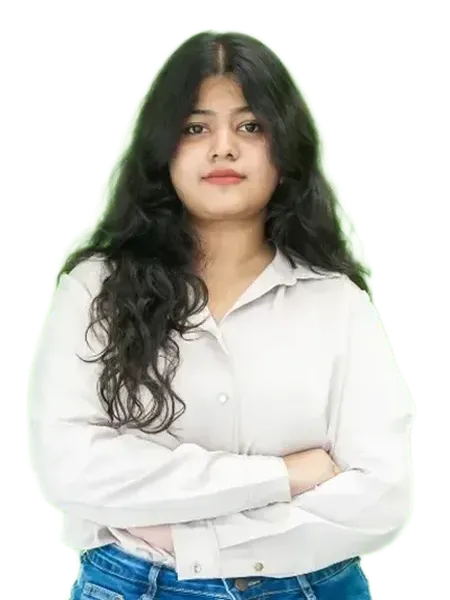
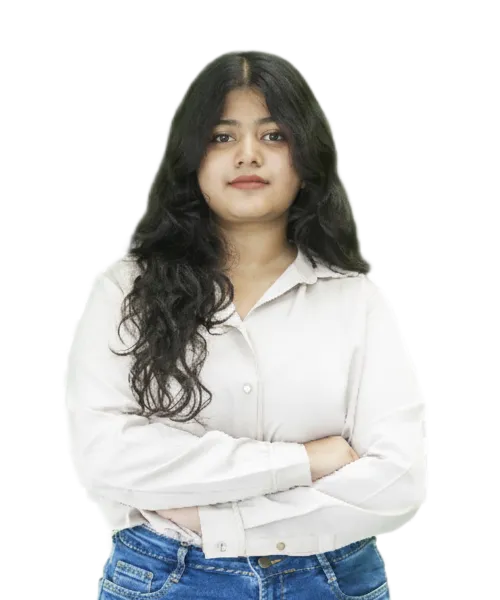
Improved image quality and aspect ratio of jr core

Changed region(s): [[0.0622, 0.03, 0.9022, 1.0], [0.3111, 0.78, 0.3422, 0.81]]

diff --git a/team.html b/team.html
@@ -361,7 +361,7 @@
               </div>
               <div class="team-content team-content2025">
                 <div class="box">
-                  <img src="assets/img/team/2025/Sebastian Karia.webp" />
+                  <img src="assets/img/team/2025/Sebastian Karia.webp" loading="lazy" alt="Sebastian Karia" />
                   <h3>Sebastian Karia</h3>
                   <h5>Chairperson</h5>
                   <div class="cust_icons">
@@ -370,7 +370,7 @@
                   </div>
                 </div>
                 <div class="box">
-                  <img src="assets/img/team/2025/Varad Sonandkar.webp" />
+                  <img src="assets/img/team/2025/Varad Sonandkar.webp" loading="lazy" alt="Varad Sonandkar" />
                   <h3>Varad Sonandkar</h3>
                   <h5>Vice-Chairperson</h5>
                   <div class="cust_icons">
@@ -379,7 +379,7 @@
                   </div>
                 </div>
                 <div class="box">
-                  <img src="assets/img/team/2025/Vedant Ghuge.webp" />
+                  <img src="assets/img/team/2025/Vedant Ghuge.webp" loading="lazy" alt="Vedant Ghuge" />
                   <h3>Vedant Ghuge</h3>
                   <h5>Technical Head</h5>
                   <div class="cust_icons">
@@ -388,7 +388,7 @@
                   </div>
                 </div>
                 <div class="box">
-                  <img src="assets/img/team/2025/Chetan Chaudhari.webp" />
+                  <img src="assets/img/team/2025/Chetan Chaudhari.webp" loading="lazy" alt="Chetan Chaudhari" />
                   <h3>Chetan Chaudhari</h3>
                   <h5>Technical Head</h5>
                   <div class="cust_icons">
@@ -397,7 +397,7 @@
                   </div>
                 </div>
                 <div class="box">
-                  <img src="assets/img/team/2025/Jaden Fernandes.webp" />
+                  <img src="assets/img/team/2025/Jaden Fernandes.webp" loading="lazy" alt="Jaden Fernandes" />
                   <h3>Jaden Fernandes</h3>
                   <h5>Event Head</h5>
                   <div class="cust_icons">
@@ -406,7 +406,7 @@
                   </div>
                 </div>
                 <div class="box">
-                  <img src="assets/img/team/2025/Ansari Fauzan.webp" />
+                  <img src="assets/img/team/2025/Ansari Fauzan.webp" loading="lazy" alt="Ansari Fauzan" />
                   <h3>Ansari Fauzan</h3>
                   <h5>Event Head</h5>
                   <div class="cust_icons">
@@ -415,7 +415,7 @@
                   </div>
                 </div>
                 <div class="box">
-                  <img src="assets/img/team/2025/Yashraj Patil.webp" />
+                  <img src="assets/img/team/2025/Yashraj Patil.webp" loading="lazy" alt="Yashraj Patil" />
                   <h3>Yashraj Patil</h3>
                   <h5>Web Development Head</h5>
                   <div class="cust_icons">
@@ -424,7 +424,7 @@
                   </div>
                 </div>
                 <div class="box">
-                  <img src="assets/img/team/2025/Aarya Khatate.webp" />
+                  <img src="assets/img/team/2025/Aarya Khatate.webp" loading="lazy" alt="Aarya Khatate" />
                   <h3>Aarya Khatate</h3>
                   <h5>Editorial Head</h5>
                   <div class="cust_icons">
@@ -433,7 +433,7 @@
                   </div>
                 </div>
                 <div class="box">
-                  <img src="assets/img/team/2025/Mrudula Sonawane.webp" />
+                  <img src="assets/img/team/2025/Mrudula Sonawane.webp" loading="lazy" alt="Mrudula Sonawane" />
                   <h3>Mrudula Sonawane</h3>
                   <h5>PR Head</h5>
                   <div class="cust_icons">
@@ -442,7 +442,7 @@
                   </div>
                 </div>
                 <div class="box">
-                  <img src="assets/img/team/2025/Glynis D'Mello.webp" />
+                  <img src="assets/img/team/2025/Glynis D'Mello.webp" loading="lazy" alt="Glynis D'Mello" />
                   <h3>Glynis D'Mello</h3>
                   <h5>PR Head</h5>
                   <div class="cust_icons">
@@ -451,7 +451,7 @@
                   </div>
                 </div>
                 <div class="box">
-                  <img src="assets/img/team/2025/Bhumi Kadam.webp" />
+                  <img src="assets/img/team/2025/Bhumi Kadam.webp" loading="lazy" alt="Bhumi Kadam" />
                   <h3>Bhumi Kadam</h3>
                   <h5>Creative Head</h5>
                   <div class="cust_icons">
@@ -460,7 +460,7 @@
                   </div>
                 </div>
                 <div class="box">
-                  <img src="assets/img/team/2025/Bhumika Patil.webp" />
+                  <img src="assets/img/team/2025/Bhumika Patil.webp" loading="lazy" alt="Bhumika Patil" />
                   <h3>Bhumika Patil</h3>
                   <h5>Creative Head</h5>
                   <div class="cust_icons">
@@ -469,7 +469,7 @@
                   </div>
                 </div>
                 <div class="box">
-                  <img src="assets/img/team/2025/Atharva Avhad.webp" />
+                  <img src="assets/img/team/2025/Atharva Avhad.webp" loading="lazy" alt="Atharva Avhad" />
                   <h3>Atharva Avhad</h3>
                   <h5>Treasurer</h5>
                   <div class="cust_icons">
@@ -486,7 +486,7 @@
               </div>
               <div class="team-content team-content2025">
                 <div class="box">
-                  <img src="assets/img/team/2025/Sampada Kaginkar.webp" />
+                  <img src="assets/img/team/2025/Sampada Kaginkar.webp" loading="lazy" alt="Sampada Kaginkar" />
                   <h3>Sampada Kaginkar</h3>
                   <h5>Asst. Technical Head</h5>
                   <div class="cust_icons">
@@ -495,7 +495,7 @@
                   </div>
                 </div>
                 <div class="box">
-                  <img src="assets/img/team/2025/Jigyasa Rathi.webp" />
+                  <img src="assets/img/team/2025/Jigyasa Rathi.webp" loading="lazy" alt="Jigyasa Rathi" />
                   <h3>Jigyasa Rathi</h3>
                   <h5>Asst. Event Head</h5>
                   <div class="cust_icons">
@@ -504,7 +504,7 @@
                   </div>
                 </div>
                 <div class="box">
-                  <img src="assets/img/team/2025/Kalanidhi Murali.webp" />
+                  <img src="assets/img/team/2025/Kalanidhi Murali.webp" loading="lazy" alt="Kalanidhi Murali" />
                   <h3>Kalanidhi Murali</h3>
                   <h5>Asst. Event Head</h5>
                   <div class="cust_icons">
@@ -513,7 +513,7 @@
                   </div>
                 </div>
                 <div class="box">
-                  <img src="assets/img/team/2025/Rutvij Kimmatkar.webp" />
+                  <img src="assets/img/team/2025/Rutvij Kimmatkar.webp" loading="lazy" alt="Rutvij Kimmatkar" />
                   <h3>Rutvij Kimmatkar</h3>
                   <h5>Asst. Editorial Head</h5>
                   <div class="cust_icons">
@@ -522,7 +522,7 @@
                   </div>
                 </div>
                 <div class="box">
-                  <img src="assets/img/team/2025/Riya Paul.webp" />
+                  <img src="assets/img/team/2025/Riya Paul.webp" loading="lazy" alt="Riya Paul" />
                   <h3>Riya Paul</h3>
                   <h5>Asst. PR Head</h5>
                   <div class="cust_icons">
@@ -531,7 +531,7 @@
                   </div>
                 </div>
                 <div class="box">
-                  <img src="assets/img/team/2025/Roshell Miranda.webp" />
+                  <img src="assets/img/team/2025/Roshell Miranda.webp" loading="lazy" alt="Roshell Miranda" />
                   <h3>Roshell Miranda</h3>
                   <h5>Asst. PR Head</h5>
                   <div class="cust_icons">
@@ -540,7 +540,7 @@
                   </div>
                 </div>
                 <div class="box">
-                  <img src="assets/img/team/2025/Sheryl Neluballi.webp" />
+                  <img src="assets/img/team/2025/Sheryl Neluballi.webp" loading="lazy" alt="Sheryl Neluballi" />
                   <h3>Sheryl Neluballi </h3>
                   <h5>Asst. Creative Head</h5>
                   <div class="cust_icons">
